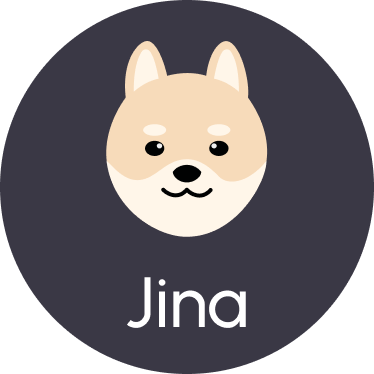
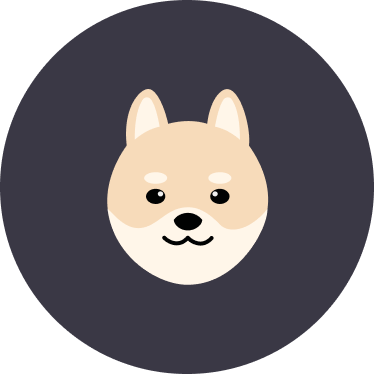
added images, updated pages

Changed region(s): [[0.2647, 0.0882, 0.7353, 0.8824]]

diff --git a/index.html b/index.html
@@ -117,7 +117,7 @@
             <div class="animallist">
                 <h1>Jindos</h1>
                 <div class="floater bottom right">
-                    <a href="#adetails-page" class="btn-circle"><img src="images/icons/add.png" alt="" class="listadd"></a>
+                    <a href="#addjindo-page" class="btn-circle"><img src="images/icons/add.png" alt="" class="listadd"></a>
                 </div>
 
                 <div class="animallist-item">
@@ -152,7 +152,7 @@
 
     </section>
 
-    <!-- Animal PROFILE PAGE DETAILS -->
+    <!-- ANIMAL PROFILE PAGE DETAILS -->
     <section data-role="page" id="adetails-page">
         <header data-role="header">
             <ul>
@@ -177,6 +177,7 @@
     <section data-role="page" id="user-profile-page">
         <div data-role="main2">
         <div class="animallist">
+
             <div class="floater top left">
                 <a href="#" class="btn-circle" data-activate="#recent-add-modal"><img src="images/icons/menu.png" alt="" class="back"></a>
             </div>
@@ -188,10 +189,9 @@
                     <div class="modal-body"><a href="#user-profile-page"> <img src="images/icons/justperson.png" alt="" class="smallicon"></a></div>
                     <div class="modal-body"><a href="#recent-page"> <img src="images/icons/justcompo.png" alt="" class="smallicon"></a></div>
                     <div class="modal-body">Log out</div>
-                    <div class="modal-body"></div>
-                    <div class="modal-body"></div>
                 </div>
             </div>
+
             <h1>Damien</h1>
             <img src="images/profileimage.png" alt="" class="hero-icon2">
                 <h2>Damien@gmail.com</h2>
@@ -217,7 +217,6 @@
         </div>
     </div>
 
-
         <footer data-role="footer">
             <ul>
                 <li><a href="#recent-page"> <img src="images/icons/compass.png" alt="" id="compass"></a></li>
@@ -228,7 +227,7 @@
     </section>
 
 
-    <!-- Animal PROFILE PAGE -->
+    <!-- ANIMAL SOLO PROFILE PAGE -->
     <section data-role="page" id="animal-profile-page">
             <header data-role="header">
                 <ul>
@@ -238,16 +237,41 @@
                 </ul>
             </header>
         <div data-role="main2">
-            <img src="images/jina.png" alt="" class="hero-icon">
-            <h2>Hi, I'm Jina!</h2>
+            <img src="images/jinadog.png" alt="" class="jinaimage">
+ 
+            <div> Hi, I'm Jina! <img src="images/jina.png" alt="" class="jinacolor"> </div>
+        
             <div class="info">
                 <p>Color - White</p>
                 <p>Age - 1 year old</p>
                 <p>Temperament - Loyal and Intelligent</p>
+                <p>Location - San Francisco, CA</p>
             </div>
         </div>
     </section>
 
+ <!-- ADDING JINDO-->
+ <section data-role="page" id="addjindo-page">
+    <header data-role="header">
+        <ul>
+            <li><a href="#list-page"> <img src="images/icons/goback.png" alt="" class="back"></a></li>
+            <li class="flex-stretch"></li>
+            <li><a href="#list-page"></a></li>
+        </ul>
+    </header>
+    <div data-role="main2">
+        <img src="images/empty.png" alt="" class="hero-icon">
+        <h2>Let's Add Jindo!</h2>
+        <div class="info">
+            <p>Color - ?</p>
+            <p>Age - ?</p>
+            <p>Temperament - ?</p>
+        </div>
+        <div class="form-control">
+            <input type="submit" class="form-button2" value="SAVE" data-role="none">
+        </div>
+    </div>
+</section>
 
 </body>
 </html>

diff --git a/src/css/app.css b/src/css/app.css
@@ -198,6 +198,20 @@ hr {
     color: #3A3845;
     font-weight: 700;
 }
+
+.form-button2 {
+    background-color: var(--color-neutral-accent);
+    border-width: 0;
+    border-radius: 1.2em;
+    padding: 0.5em 1em;
+    display: inline-block;
+    width: 84%;
+    font: inherit;
+    text-align: center;
+    color: #3A3845;
+    font-weight: 700;
+}
+
 .form-button:hover {
     text-decoration: none;
 }
@@ -427,4 +441,13 @@ hr {
 
 .back {
     width:34px;
+}
+
+.jinacolor {
+    width:38px;
+    text-align: center;
+}
+
+.jinaimage{
+    border-radius: 20px;
 }
